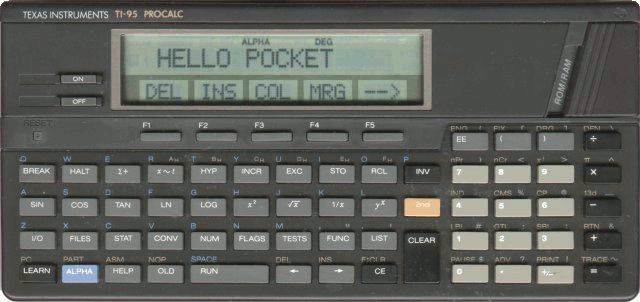
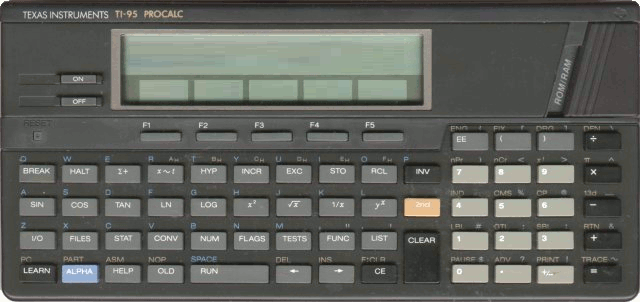
TI-95

Changed region(s): [[0.2188, 0.1192, 0.5312, 0.2384], [0.3125, 0.2682, 0.625, 0.3278], [0.2188, 0.2682, 0.2812, 0.3278]]

diff --git a/src/machine/ti/ti74.cpp b/src/machine/ti/ti74.cpp
@@ -118,7 +118,7 @@ Cti95::Cti95(CPObject *parent)	: Cti74(parent)
 
     delete pLCDC;
     pLCDC		= new Clcdc_ti95(this);
-    pKEYB->fn_KeyMap = "ti-95.map";
+    pKEYB->fn_KeyMap = "ti95.map";
 
 }
 
@@ -430,6 +430,119 @@ quint8 Cti74::getKey()
             }
             if (KEY(K_CTRL))			data|=0x40;
             if (KEY(K_SHT))			data|=0x80;
+        }
+
+//        if (fp_log) fprintf(fp_log,"Read key [%02x]: strobe=%02x result=%02x\n",pKEYB->LastKey,ks,data^0xff);
+
+    }
+
+    if (data>0) {
+
+        AddLog(LOG_KEYBOARD,tr("KEY PRESSED=%1").arg(data,2,16,QChar('0')));
+    }
+    return data;//^0xff;
+
+}
+
+
+quint8 Cti95::getKey()
+{
+
+    quint8 data=0;
+
+    if ((pKEYB->LastKey>0))
+    {
+
+
+        if (ks & 0x01) {
+            if (KEY(K_POW_OFF))			data|=0x01;
+            if (KEY('Q'))			data|=0x02;
+            if (KEY('A'))			data|=0x04;
+            if (KEY('Z'))			data|=0x08;
+//            if (KEY(''))			data|=0x10;
+            if (KEY(')'))			data|=0x20;
+            if (KEY('/'))			data|=0x40;
+            if (KEY('='))			data|=0x80;
+        }
+
+        if (ks & 0x02) {
+            if (KEY('{'))			data|=0x01;
+            if (KEY('W'))			data|=0x02;
+            if (KEY('S'))			data|=0x04;
+            if (KEY('X'))			data|=0x08;
+//            if (KEY(''))			data|=0x10;
+            if (KEY('3'))			data|=0x20;
+            if (KEY('+'))			data|=0x40;
+            if (KEY('2'))			data|=0x80;
+        }
+
+        if (ks & 0x04) {
+            if (KEY(K_F1))			data|=0x01;
+            if (KEY('E'))			data|=0x02;
+            if (KEY('D'))			data|=0x04;
+            if (KEY('C'))			data|=0x08;
+//            if (KEY(''))			data|=0x10;
+            if (KEY('6'))			data|=0x20;
+            if (KEY('-'))			data|=0x40;
+            if (KEY('5'))			data|=0x80;
+        }
+        if (ks & 0x08) {
+            if (KEY(K_F2))			data|=0x01;
+            if (KEY('R'))			data|=0x02;
+            if (KEY('F'))			data|=0x04;
+            if (KEY('V'))			data|=0x08;
+//            if (KEY(K_RUN))			data|=0x10;
+            if (KEY('9'))			data|=0x20;
+            if (KEY('*'))			data|=0x40;
+            if (KEY('8'))			data|=0x80;
+        }
+        if (ks & 0x10) {
+            if (KEY(K_F3))			data|=0x01;
+            if (KEY('T'))			data|=0x02;
+            if (KEY('G'))			data|=0x04;
+            if (KEY('B'))			data|=0x08;
+            if (KEY(' '))			data|=0x10;
+            if (KEY('0'))			data|=0x20;
+            if (KEY('.'))			data|=0x40;
+            if (KEY(K_SIGN))			data|=0x80;
+        }
+        if (ks & 0x20) {
+            if (KEY(K_F4))			data|=0x01;
+            if (KEY('Y'))			data|=0x02;
+            if (KEY('H'))			data|=0x04;
+            if (KEY('N'))			data|=0x08;
+            if (KEY(K_LA))			data|=0x10;
+            if (KEY('O'))			data|=0x20;
+            if (KEY('P'))			data|=0x40;
+            if (KEY('7'))			data|=0x80;
+        }
+        if (ks & 0x40) {
+            if (KEY(K_F5))			data|=0x01;
+            if (KEY('U'))			data|=0x02;
+            if (KEY('J'))			data|=0x04;
+            if (KEY('M'))			data|=0x08;
+            if (KEY(K_RA))		data|=0x10;
+            if (KEY('L'))			data|=0x20;
+            if (KEY(K_SHT))			data|=0x40;
+            if (KEY('4'))			data|=0x80;
+        }
+
+        if (ks & 0x80) {
+            if (KEY('('))		data|=0x01;
+            if (KEY('I'))			data|=0x02;
+            if (KEY('K'))			data|=0x04;
+//            if (KEY('/'))			data|=0x08;
+//            if (KEY(''))			data|=0x10;
+//            if (KEY(K_FN))			{
+//#if 0
+//                pCPU->logsw = true;
+//                pCPU->Check_Log();
+//#else
+//                data|=0x20;
+//#endif
+//            }
+            if (KEY(K_CLR))			data|=0x40;
+            if (KEY('1'))			data|=0x80;
         }
 
 //        if (fp_log) fprintf(fp_log,"Read key [%02x]: strobe=%02x result=%02x\n",pKEYB->LastKey,ks,data^0xff);

diff --git a/src/lcd/Lcdc_ti74.cpp b/src/lcd/Lcdc_ti74.cpp
@@ -16,7 +16,10 @@ Clcdc_ti74::Clcdc_ti74(CPObject *parent)	: Clcdc(parent){						//[constructor]
 }
 
 Clcdc_ti95::Clcdc_ti95(CPObject *parent)	: Clcdc_ti74(parent){
-
+    Color_Off.setRgb(
+                        (int) (152*contrast),
+                        (int) (170*contrast),
+                        (int) (151*contrast));
 }
 
 void Clcdc_ti74::disp_symb(void)
@@ -80,6 +83,51 @@ HD44780_PIXEL_UPDATE(Cti74_update_pixel)
     }
 }
 
+
+
+HD44780_PIXEL_UPDATE(Cti95_update_pixel_symb)
+{
+    if (line == 1 && pos == 15)
+    {
+        // output#  |  40   43     41   44   42     12  11  10/13/14  0    1    2
+        // above    | _LOW _ERROR  2nd  INV  ALPHA  LC  INS  DEGRAD  HEX  OCT  I/O
+        // screen-  | _P{70} <{71}                                             RUN{3}
+        //   area   .                                                          SYS{4}
+
+        int id = y*10+x;
+        switch (id) {
+        case 40: Clcdc::disp_one_symb(painter,S_LOW, COLOR(state),	  0,	0); break;
+        case 43: Clcdc::disp_one_symb(painter,S_ERROR, COLOR(state), 20,	0); break;
+        case 41: Clcdc::disp_one_symb(painter,S_SEC, COLOR(state),	 50,	0); break;
+//        case 44: Clcdc::disp_one_symb(painter,S_INV,  COLOR(state),	 80,	0); break;
+//        case 42:  Clcdc::disp_one_symb(painter,S_ALPHA,  COLOR(state),	110,	0); break;
+//        case 12:  Clcdc::disp_one_symb(painter,S_LC, COLOR(state),	140,	0); break;
+//        case 11:  Clcdc::disp_one_symb(painter,S_INS, COLOR(state),	140,	0); break;
+        case 10:  Clcdc::disp_one_symb(painter,S_DEG, COLOR(state),	170,	0); break;
+        case 13:  Clcdc::disp_one_symb(painter,S_G, COLOR(state),	170,	0); break;
+        case 14:  Clcdc::disp_one_symb(painter,S_RAD, COLOR(state),	170,	0); break;
+//        case 0:  Clcdc::disp_one_symb(painter,S_HEX, COLOR(state),	170,	0); break;
+//        case 1:  Clcdc::disp_one_symb(painter,S_OCT, COLOR(state),	170,	0); break;
+        case 2:  Clcdc::disp_one_symb(painter,S_IO, COLOR(state),	205,	0); break;
+
+        case 3:  Clcdc::disp_one_symb(painter,S_LOW, COLOR(state),	170,	0); break;
+        case 4:  Clcdc::disp_one_symb(painter,S_LOW, COLOR(state),	170,	0); break;
+        case 70:  Clcdc::disp_one_symb(painter,S_LOW, COLOR(state),	170,	0); break;
+        case 71:  Clcdc::disp_one_symb(painter,S_LOW, COLOR(state),	170,	0); break;
+
+
+//        case 63: Clcdc::disp_one_symb(painter,S_BASIC, COLOR(state), 20,	18); break;
+//        case 64: Clcdc::disp_one_symb(painter,S_CALC, COLOR(state),	 50,	18); break;
+        case 1: Clcdc::disp_one_symb(painter,S_DEG, COLOR(state),	 80,	18); break;
+        case 62: Clcdc::disp_one_symb(painter,S_RAD, COLOR(state),	110,	18); break;
+        case 53: Clcdc::disp_one_symb(painter,S_G,   COLOR(state),	140,	18);
+                 Clcdc::disp_one_symb(painter,S_RAD, COLOR(state),	145,	18); break;
+        case 54: Clcdc::disp_one_symb(painter,S_STAT, COLOR(state),	170,	18); break;
+
+        }
+    }
+}
+
 HD44780_PIXEL_UPDATE(Cti95_update_pixel)
 {
     // char size is 5x7 + cursor
@@ -103,7 +151,7 @@ HD44780_PIXEL_UPDATE(Cti95_update_pixel)
         const int gap = 6;
         int group = pos / 3;
         painter->setPen(COLOR(state));
-        painter->drawPoint( 9 + group*gap + pos*6 + x, 23 + y );
+        painter->drawPoint( 9 + group*gap + pos*6 + x, 22 + y );
     }
 }
 

diff --git a/src/machine/ti/ti74.h b/src/machine/ti/ti74.h
@@ -39,7 +39,7 @@ public:
     CHD44780 *pHD44780;
 
     quint8 ks;
-    quint8 getKey();
+    virtual quint8 getKey();
     UINT8 m_clock_control;
     UINT8 m_banks;
     UINT8 m_power;
@@ -64,6 +64,8 @@ class Cti95 : public Cti74
 public:
     Cti95(CPObject *parent = 0);
     virtual ~Cti95();
+
+    virtual quint8 getKey();
 };
 
 #endif // TI74_H

diff --git a/src/lcd/Lcdc_symb.h b/src/lcd/Lcdc_symb.h
@@ -226,6 +226,14 @@ static const char
 " #   #  # #  # #  \r"
 "###  #  #  ### #  "
 
+,*S_SEC=
+
+" ##           \r"
+"#  # # #     #\r"
+"  #  ## #  ###\r"
+" #   #  # #  #\r"
+"###  #  #  ###"
+
 ,*S_JAP=
 
 " #      # \r"
